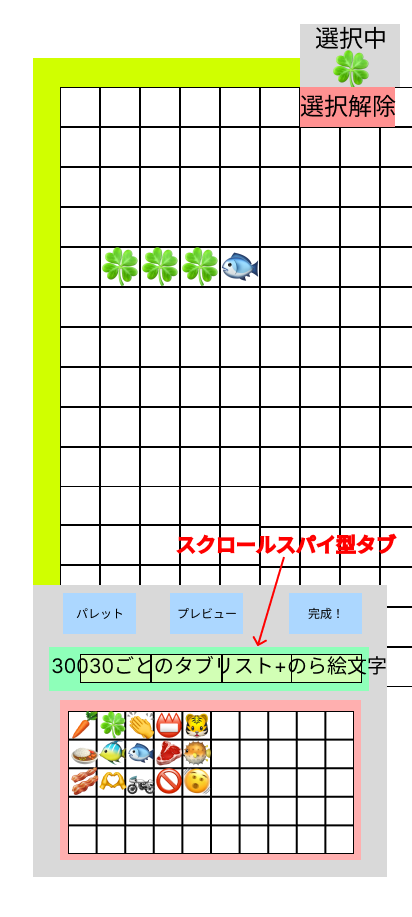
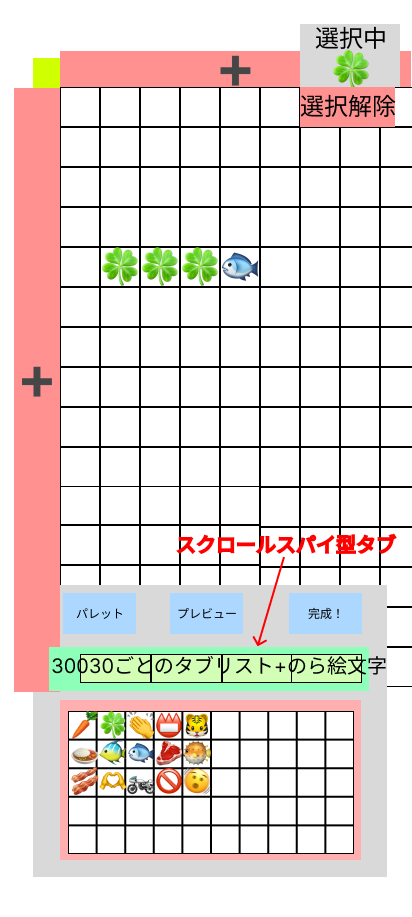
修正(左右上下から行/列の挿入可能)

Changed region(s): [[0.0291, 0.0305, 0.7282, 0.7634], [0.9612, 0.0305, 1.0, 0.0916]]

diff --git a/設計書.md b/設計書.md
@@ -26,8 +26,8 @@ Nostr のカスタム絵文字を1セル1絵文字のグリッドに配置し、
 │  Nostr Custom Emoji ハイパーつくるくん               │
 ├─────────────────┬──────────────────────────────────┤
 │ パレット         │  グリッド                          │
-│                 │                                    │
-│ [🐱][🐶][🌟]  │    ┌──┬──┬──┬──┬──┐  ＋        │
+│                 │              ＋                    │
+│ [🐱][🐶][🌟]  │  ＋ ┌──┬──┬──┬──┬──┐  ＋      │
 │ [🎉][🍎][🎮]  │    │  │🐱│  │  │  │            │
 │ [🔥][💫][🎵]  │    ├──┼──┼──┼──┼──┤            │
 │ ...             │    │  │  │🌟│  │  │            │
@@ -48,14 +48,15 @@ Nostr のカスタム絵文字を1セル1絵文字のグリッドに配置し、
 │ ハイパーつくるくん  │
 ├───────────────────┤
 │   グリッド          │
-│  ┌──┬──┬──┐  ＋ │
-│  │  │🐱│  │     │
-│  ├──┼──┼──┤     │
-│  │🌟│  │🎉│     │
-│  ├──┼──┼──┤     │
-│  │  │🔥│  │     │
-│  └──┴──┴──┘     │
-│        ＋          │
+│         ＋          │
+│  ＋ ┌──┬──┬──┐ ＋│
+│    │  │🐱│  │     │
+│    ├──┼──┼──┤     │
+│    │🌟│  │🎉│     │
+│    ├──┼──┼──┤     │
+│    │  │🔥│  │     │
+│    └──┴──┴──┘     │
+│         ＋          │
 │      [選択解除]    │
 ├───────────────────┤
 │ 選択中の絵文字: 🐱  │
@@ -141,6 +142,14 @@ AA的な幅の一貫性を保つために空セルもカスタム絵文字とし
 
 グリッドを以下のルールで kind 1 の content テキストに変換する。
 
+### 出力前トリム処理
+
+出力テキストの生成前に、グリッドの上端・下端・左端・右端から
+null のみで構成される行・列を除去する。
+グリッドの表示・編集状態には影響しない。
+
+### 変換ルール
+
 - 各セル：絵文字は `:shortcode:` 形式
 - 空セル：設定中の null 絵文字の `:shortcode:` 形式
 - 各行：セルをそのまま横に並べる
@@ -211,8 +220,11 @@ kind 1 イベントの `tags` には、使用した絵文字 + null 絵文字を
 
 ### 6. グリッドサイズ変更
 
-- グリッドの行末尾・列末尾に `+` ボタンを配置する
-- `+` ボタンをクリックすると、その行または列が1つ追加される
+- グリッドの上端・下端・左端・右端に `+` ボタンを配置する
+- 下端の `+`：末尾に1行を追加する
+- 右端の `+`：末尾に1列を追加する
+- 上端の `+`：先頭に1行を挿入する
+- 左端の `+`：先頭に1列を挿入する
 - TODO: 行・列の削除操作と、削除時に配置済み絵文字が存在する場合の挙動
 
 ### 7. パレット絵文字の取得
